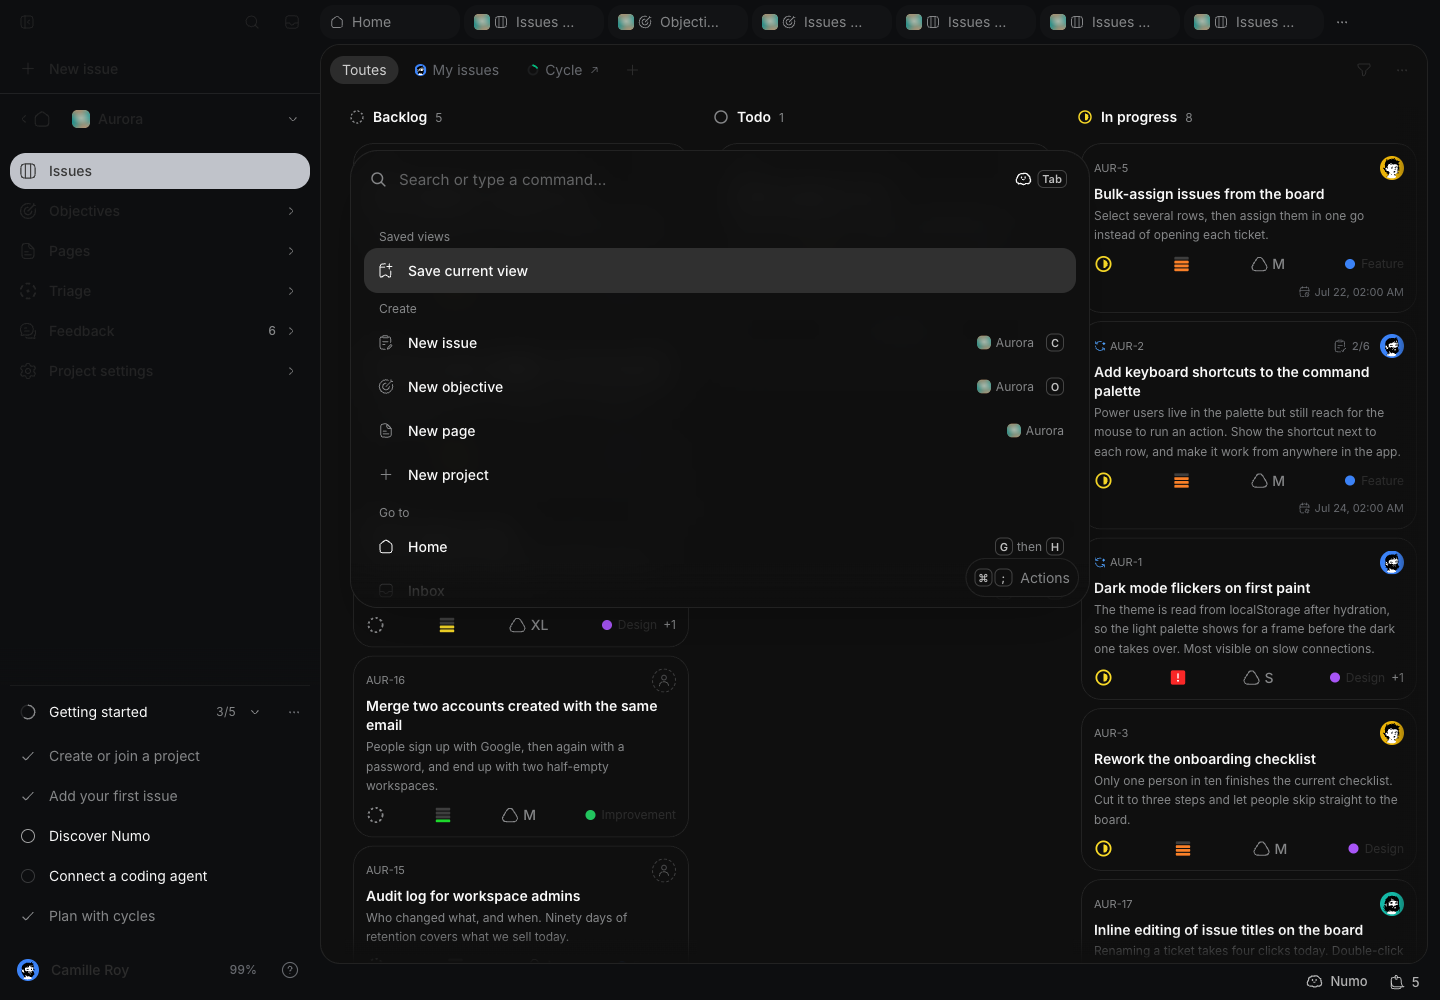
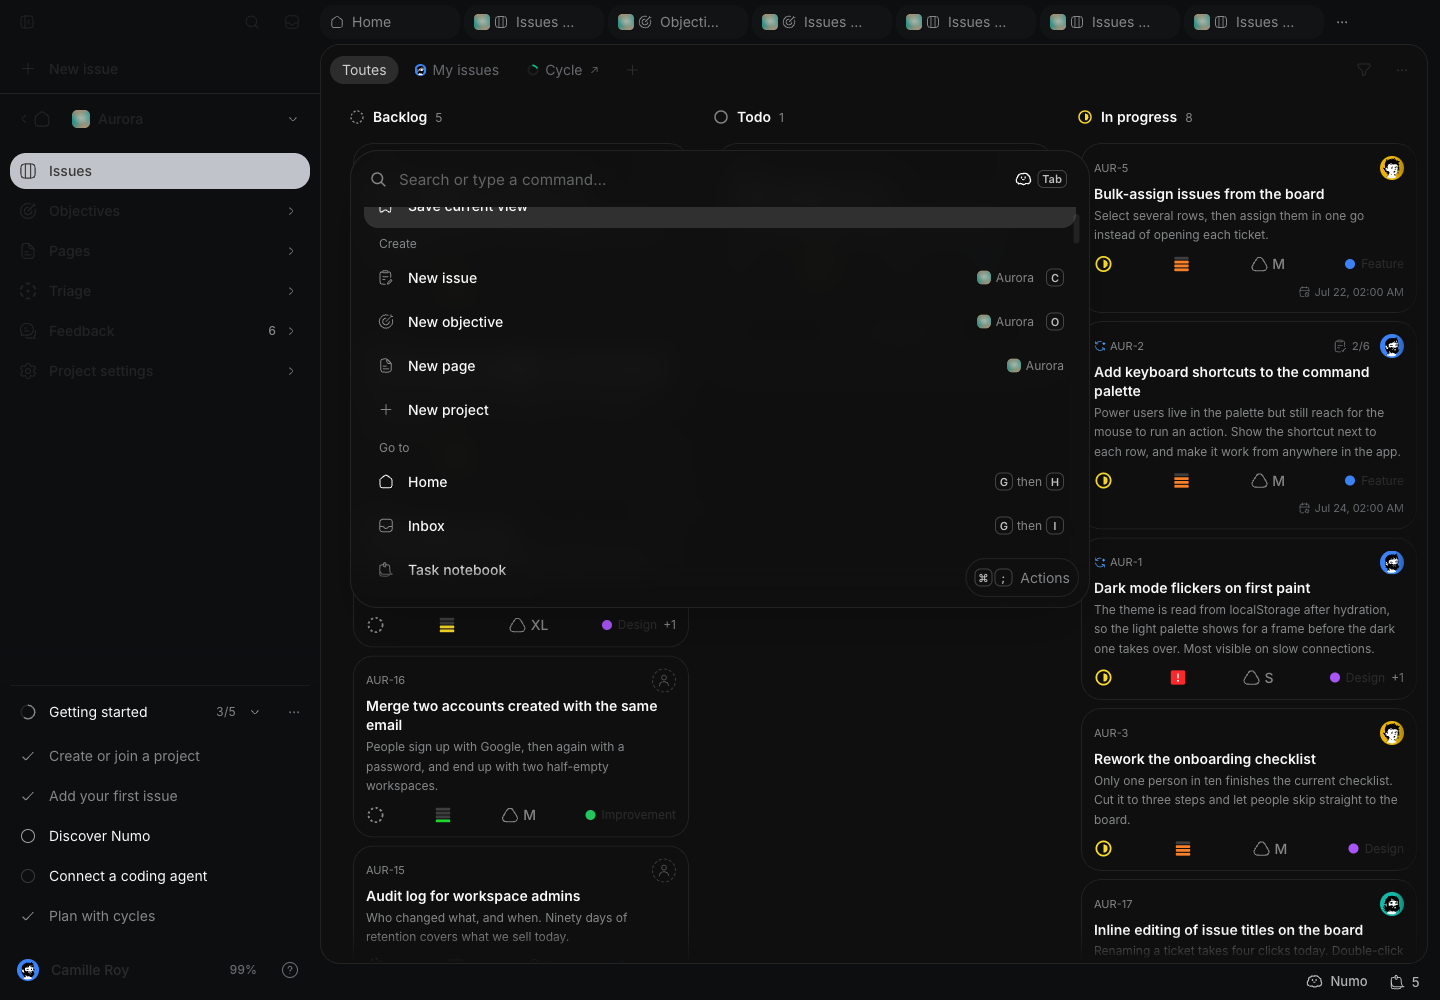
fix: remove command palette results top corner clipping

diff --git a/lib/command-palette/styles/ResultsList.module.css b/lib/command-palette/styles/ResultsList.module.css
@@ -5,12 +5,14 @@
 .container {
   min-height: 0;
   overflow: hidden;
-  /* Inset from the palette edges so the container's corners can nest into
-     the palette's: 8px inset + this radius = the palette's inner radius
-     (outer radius minus its 1px border). Each item highlight nests one level
-     down (see ResultItem.module.css). */
+  /* Keep the top corners square so scrolled results are not clipped.
+     The inset and bottom corners nest into the palette's inner radius.
+     Each item highlight nests one level down (see ResultItem.module.css). */
   margin: 0 8px;
-  border-radius: calc(var(--cp-radius-2xl, var(--cp-radius-xl)) - 1px - 8px);
+  border-radius:
+    0 0
+    calc(var(--cp-radius-2xl, var(--cp-radius-xl)) - 1px - 8px)
+    calc(var(--cp-radius-2xl, var(--cp-radius-xl)) - 1px - 8px);
   /* Animate height changes smoothly */
   transition: height 200ms ease-out;
 }
